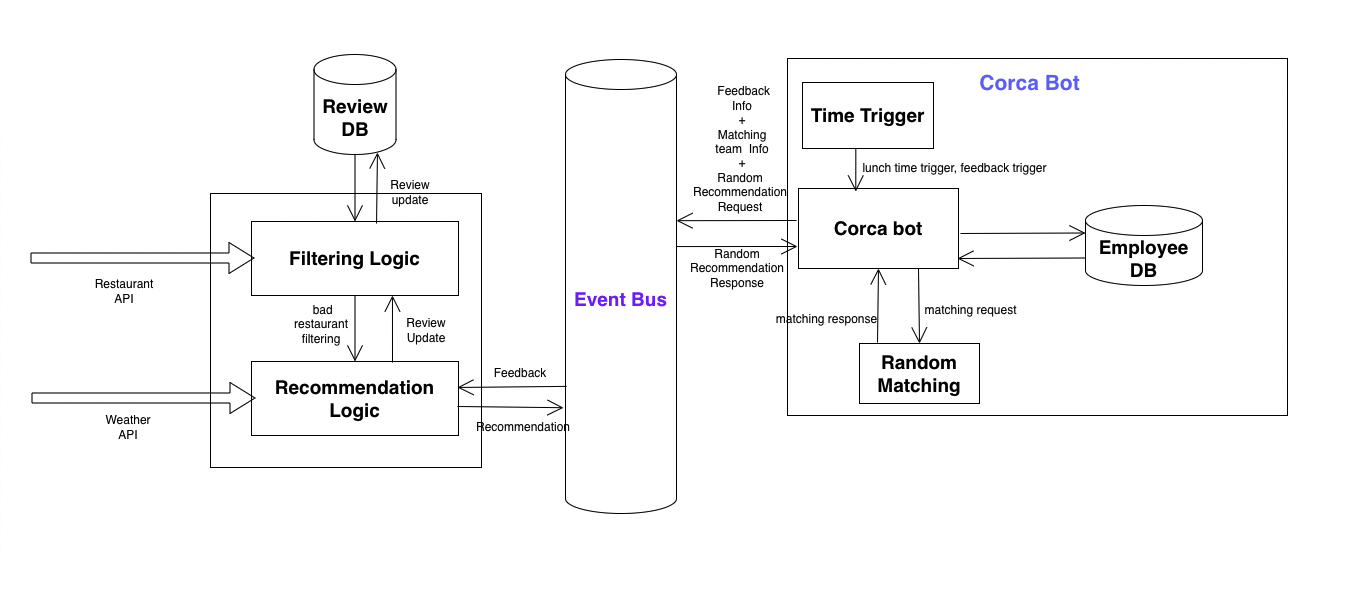
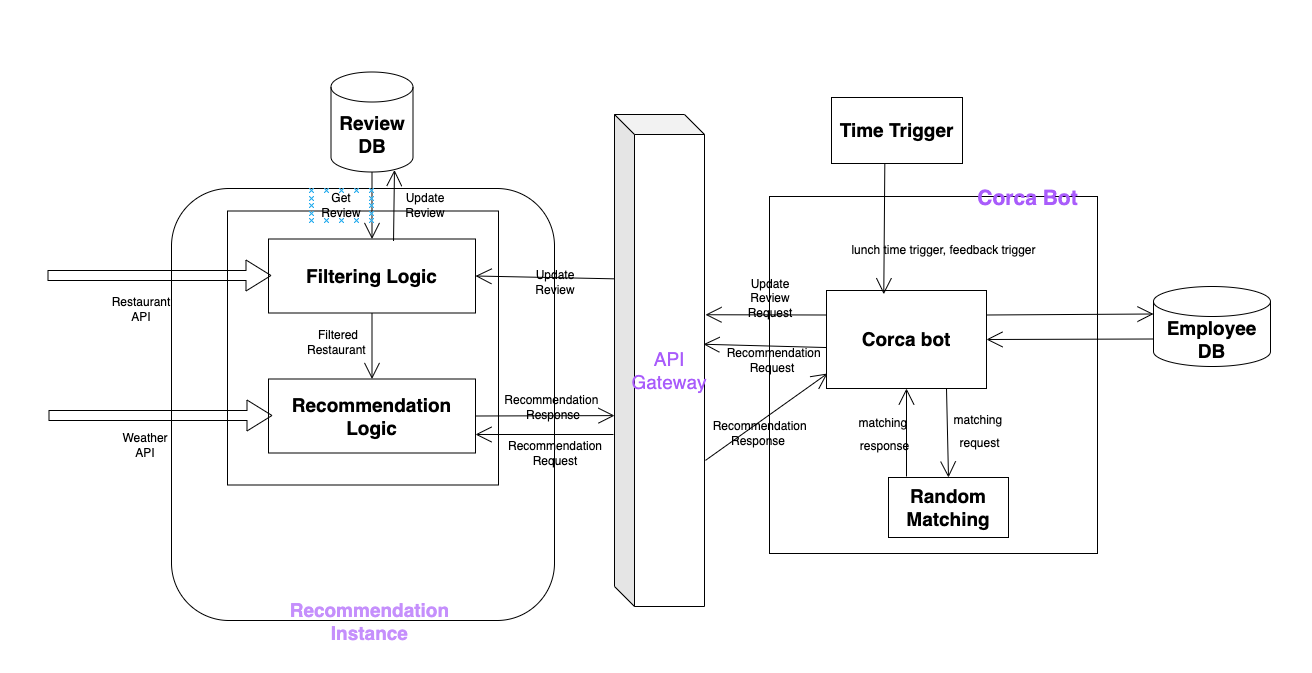
feat: update architecture, delete event bus

diff --git a/assignments/architecture/architecture.md b/assignments/architecture/architecture.md
@@ -1,5 +1,7 @@
 # Corca Bot Lunch Recommendation Architecture
 
+- 실시간성이 필요하지않다고 생각하여 Event drivent MSA 보다 API Gateway를 이용한 Load balancing + Micro Service Architecture 가 적합하다고 판단.
+
 ## Components
 
 > Weather
@@ -9,27 +11,27 @@
 
 > Corca Bot
 
-- 코르카 봇에 저장돼있는 Employee DB에서 Employee 정보 제공
-- 팀 선정 기능 제공 (Random Matching)
+- Employee DB의 Employee 정보를 이용하여 팀 선정 기능 제공 (Random Matching)
 - Time Trigger
   - 10:30 am : 코르카 봇으로 점심 식사 여부 체크 요청
   - 01:00 pm : 코르카 봇으로 점심 메뉴 추천 리뷰 요청
-- 점심 식사에 참여하는 팀별 Emplyoee 정보와 점심 메뉴 추천 요청을 Event Bus로 전달 (Event driven MSA)
+- 점심 식사에 참여하는 팀별 Emplyoee 정보와 점심 메뉴 추천 요청을 API Gateway로 전달 (MSA)
+- Review가 완료되면 review 결과 API Gateway로 전달
+- Recommendation 응답이 돌아오면 각 음식점별 피드백 받음
 
 > Random Recommendation
 
-- 각각의 랜덤 추천 instance는 로드밸런싱을 통해 요청 수에 따라 scale in, scale out 이 가능하다.
+- Recommendation instance는 로드밸런싱을 통해 요청 수에 따라 scale in, scale out 이 가능하다.
 
   > > Restaurant Recommendation Logic
 
-  - 팀원 정보와 날씨를 바탕으로 적절한 메뉴 추천
+  - 필터링된 음식점 정보, Employee 정보, 날씨를 바탕으로 적절한 메뉴 추천
 
-  - 점심 메뉴 추천 요청이 들어오면, API를 통해 넘어온 음식점에 맞게 Review DB 데이터를 가져온다.
+  - 점심 메뉴 추천 요청이 들어오면, 메뉴 추천 결과를 API Gateway로 response.
 
   > > Filtering Logic
 
-  - Restaurant DB를 거리순으로, 리뷰를 바탕으로 필터링한다.
-  - 각 Restaurant 별 어울리는 날씨 매칭 필터링 존재
+  - API를 통해 가져온 음식점 명단을 거리순으로, 리뷰를 바탕으로, 또는 필터링 조건을 커스터마이징하여 필터링한다.
 
 > Review DB
 
